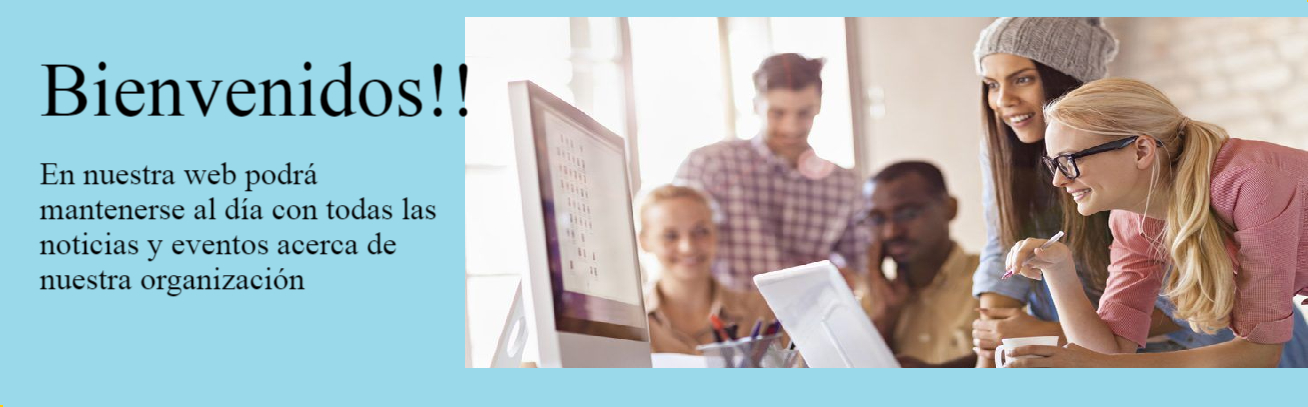
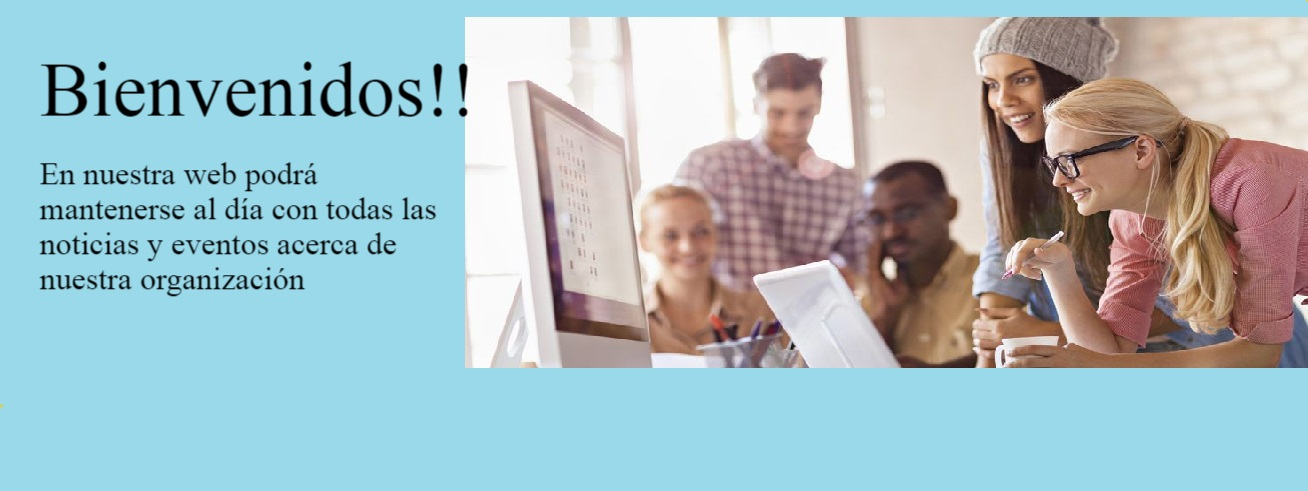
css

diff --git a/index.html b/index.html
@@ -30,9 +30,22 @@
             </form><a class="btn btn-light action-button" role="button" href="src/public/modulos/login/index.html">Ingresar </a></div>
         </div>
     </nav>
-    <!-- portada  -->
-    <img src="src/public/media/portada.jpg" >
-    <!-- width="50%" style=" display: block; margin-left: auto;  margin-right: auto; width: 50%;" alt="" -->
+    <!-- portada  --> 
+    <!-- carrusel -->
+    <div class="simple-slider">
+        <div class="swiper-container">
+                 
+                 <div class="swiper-wrapper" >
+                            <div class="swiper-slide" style="background-image:url(https://placeholdit.imgix.net/~text?txtsize=68&amp;txt=Slideshow+Image&amp;w=1520&amp;h=200);"><img src="src/public/media/portada.jpg" width="100%"></div>
+                            <div class="swiper-slide" style="background-image:url(https://placeholdit.imgix.net/~text?txtsize=68&amp;txt=Slideshow+Image&amp;w=1520&amp;h=200);"><img src="src/public/media/car1.jpg" width="100%"></div>
+                            <div class="swiper-slide" style="background-image:url(https://placeholdit.imgix.net/~text?txtsize=68&amp;txt=Slideshow+Image&amp;w=1520&amp;h=200);"><img src="src/public/media/car2.png" width="100%"></div>
+                            <div class="swiper-slide" style="background-image:url(https://placeholdit.imgix.net/~text?txtsize=68&amp;txt=Slideshow+Image&amp;w=1520&amp;h=200);"><img src="src/public/media/car4.jpg" width="100%"></div>      
+                  </div>
+                      <div class="swiper-pagination"></div>
+                      <div class="swiper-button-prev"></div>
+                      <div class="swiper-button-next"></div>
+        </div>
+    </div>
     <!-- menu de contacto -->
     <div style="background: rgb(0, 195, 255)">
         <div class="container">
@@ -44,33 +57,29 @@
             </div>
         </div>
     </div>
-    <!-- carrusel -->
-    <div class="simple-slider">
-        <div class="swiper-container">
-                  <div class="swiper-wrapper">
-                            <div class="swiper-slide" style="background-image:url(https://placeholdit.imgix.net/~text?txtsize=68&amp;txt=Slideshow+Image&amp;w=1920&amp;h=500);"><img src="src/public/media/car2.png" width="50%">dsafsf</div>
-                            <div class="swiper-slide" style="background-image:url(https://placeholdit.imgix.net/~text?txtsize=68&amp;txt=Slideshow+Image&amp;w=1920&amp;h=500);"><img src="src/public/media/car1.jpg" width="50%">fdsdff</div>
-                            <div class="swiper-slide" style="background-image:url(https://placeholdit.imgix.net/~text?txtsize=68&amp;txt=Slideshow+Image&amp;w=1920&amp;h=500);"><img src="src/public/media/car2.png" width="50%">afsasdfsd</div>
-                            <div class="swiper-slide" style="background-image:url(https://placeholdit.imgix.net/~text?txtsize=68&amp;txt=Slideshow+Image&amp;w=1920&amp;h=500);"><img src="src/public/media/car3.jpg" width="50%">asdafdas</div>
-                            <div class="swiper-slide" style="background-image:url(https://placeholdit.imgix.net/~text?txtsize=68&amp;txt=Slideshow+Image&amp;w=1920&amp;h=500);"><img src="src/public/media/car4.jpg" width="50%">adasdasfs</div>      
-                  </div>
-                      <div class="swiper-pagination"></div>
-                      <div class="swiper-button-prev"></div>
-                      <div class="swiper-button-next"></div>
-        </div>
-    </div>
+   
     
     <!-- cuerpo de la pagina -->
-    <div>
-        <div class="container">
-            <div class="row">
-                <div class="col-md-4">rder</div>
-                <div class="col-md-4">erer</div>
-                <div class="col-md-4">wewr</div>
-            </div>
-        </div>
+    <div class="container-fluid">
+        <section class="main row">
+            <!-- columna izquierda -->
+               <article class="col-md-3" style="background:rgb(211, 203, 203);">
+                 <P>izquierda</P>
+                 Lorem ipsum dolor sit amet consectetur adipisicing elit. Iure harum laudantium debitis alias expedita? Tenetur ea, soluta commodi molestiae iure iste magnam, id nemo vitae ipsam quia molestias maiores animi!
+               </article>
+               <!-- columna central -->
+                  <article class="col-md-7" style="background:white;">
+                    <P>centro</P>
+                    Lorem ipsum dolor sit amet consectetur, adipisicing elit. Aliquid assumenda ut inventore sint nesciunt quaerat ipsam esse, at dicta aspernatur corrupti? Placeat earum hic assumenda repellendus laborum qui quidem impedit.
+                  </article>
+                  <!-- columna derecha -->
+                   <article class="col-md-2" style="background:rgb(211, 203, 203);">
+                     <P>derecha</P>
+                     Lorem ipsum dolor, sit amet consectetur adipisicing elit. Nisi delectus aliquam perspiciatis recusandae mollitia praesentium unde quo iusto. Tempore praesentium modi facilis distinctio eum quis earum, repellendus mollitia eius consequuntur.
+                   </article>
+                   
+        </section>
     </div>
-    <br>
     <!-- footer -->
     <div class="footer-clean" style="background: rgb(171, 186, 190)">
         <footer>
@@ -94,12 +103,17 @@
                            
                         </ul>
                     </div>
-                   
+                    <!-- redes sociales -->
+                       <div class="col-lg-3 item social" ><a href="#"><i class="icon ion-social-facebook"></i></a> 
+                                                          <a href="#"><i class="icon ion-social-twitter"></i></a>
+                                                          <a href="#"><i class="icon ion-social-snapchat"></i></a>
+                                                          <a href="#"><i class="icon ion-social-instagram"></i></a>
+                            <p class="copyright">SADOP © 2020</p>
+                      </div>
                 </div>
-                      <div class="col-lg-3 item social"><a href="#"><i class="icon ion-social-facebook"></i></a><a href="#"><i class="icon ion-social-twitter"></i></a><a href="#"><i class="icon ion-social-snapchat"></i></a><a href="#"><i class="icon ion-social-instagram"></i></a>
-                        <p class="copyright">SADOP © 2020</p>
-                    </div>
+                      
             </div>
+                      
         </footer>
     </div>
     <!-- script -->
